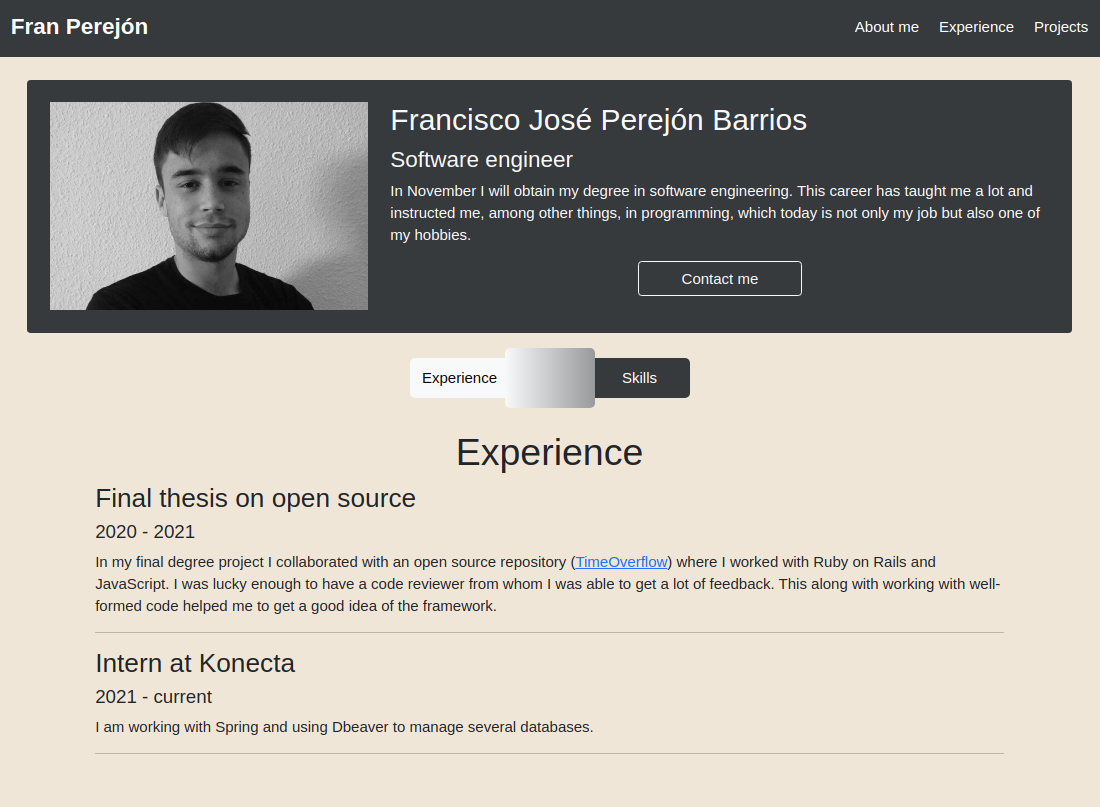
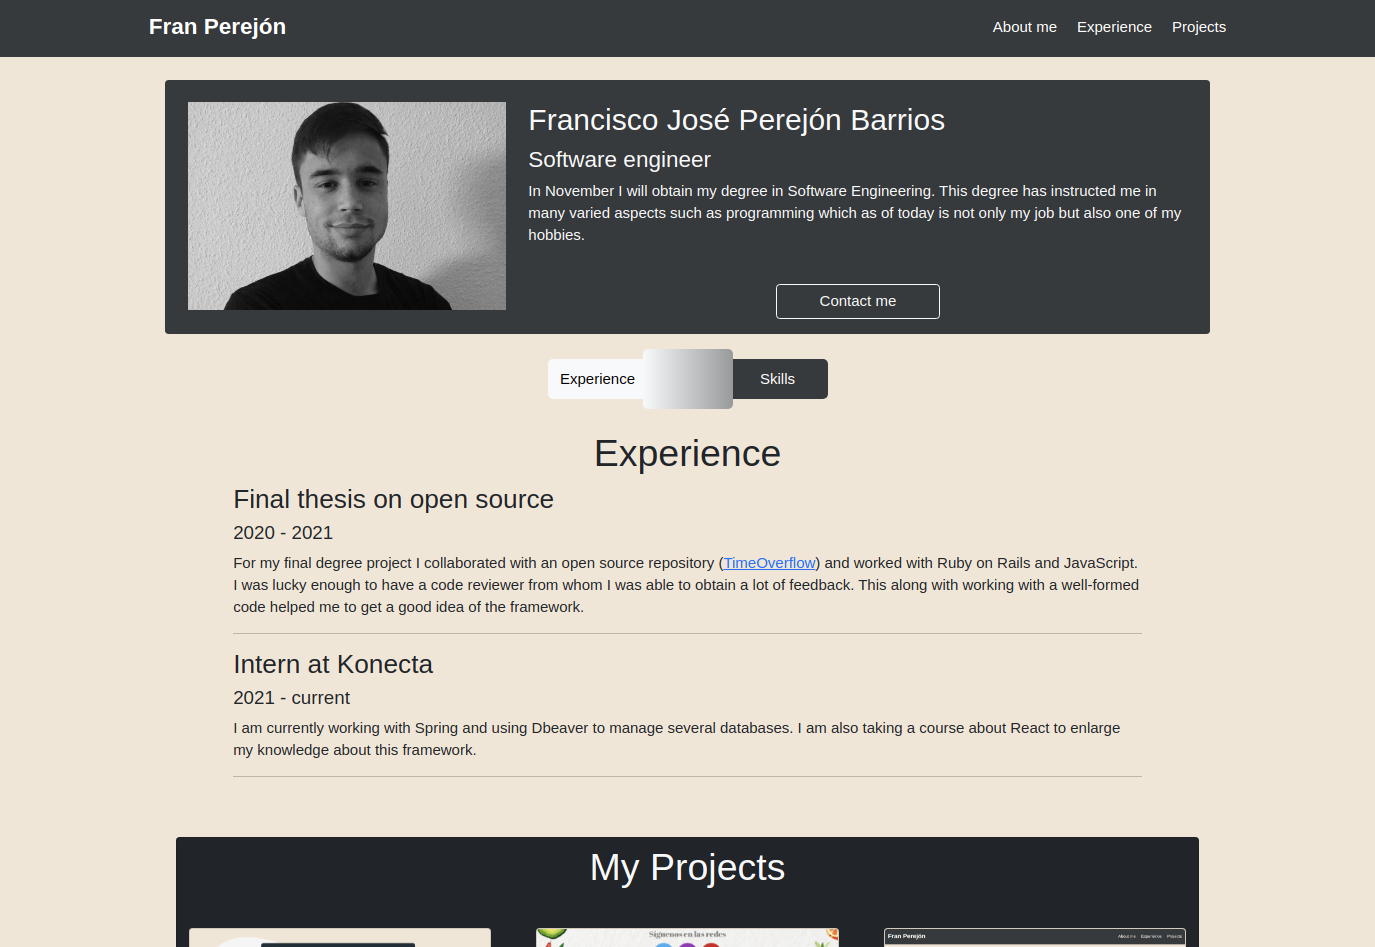
fix: se arregla la parte de proyectos

diff --git a/pages/index.js b/pages/index.js
@@ -2,9 +2,7 @@ import Head from 'next/head'
 import 'bootstrap/dist/css/bootstrap.css'
 import Header from '../components/header.js'
 import Presentacion from '../components/presentacion.js'
-import Skills from '../components/skills.js'
 import BotonExperienceSkill from '../components/botonExperienceSkill.js'
-import { useEffect, useState } from 'react';
 import Footer from '../components/footer';
 import Projects from '../components/projects';
 

diff --git a/components/project.js b/components/project.js
@@ -22,7 +22,7 @@ function Project(props) {
           />
         </div>
         <div className="card-body bg-light">
-          <h3>{props.name}</h3>
+          <h3 className="col-12 text-center">{props.name}</h3>
           <p>{props.description}</p>
           <div className="col-12 columnasRocket">
             <a className="rocket" target="_blank" href={props.urlRocket}><FontAwesomeIcon icon={faRocket}></FontAwesomeIcon></a>

diff --git a/components/presentacion.js b/components/presentacion.js
@@ -7,7 +7,6 @@ export default function Presentacion() {
 
   const [modalOpen, setModalOpen] = useState(false);
   const [formError, setFormError] = useState({ error: "" });
-  const [querySubject, setQuerySetsubject] = useState("");
   const [name_, setName_] = useState("");
   const [clientEmail, setClientEmail] = useState("");
   const [clientMsg, setClientMsg] = useState("");

diff --git a/components/skill.js b/components/skill.js
@@ -1,5 +1,5 @@
 import 'bootstrap/dist/css/bootstrap.css'
-import React, { useState, useEffect } from 'react';
+import React, { useEffect } from 'react';
 
 function Skill(props) {
   

diff --git a/styles/globals.css b/styles/globals.css
@@ -240,7 +240,7 @@ li span {
 }
 
 .overflow {
-  height: 50%;
+  height: 35%;
   overflow: hidden;
 }
 
